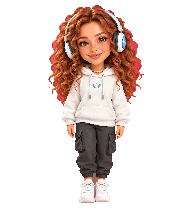
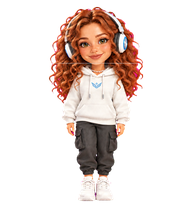
fix: sharpen Patrycja animation assets

Changed region(s): [[0.25, 0.0288, 0.75, 0.9808], [0.4062, 0.4615, 0.4375, 0.4904]]

diff --git a/__init__.py b/__init__.py
@@ -12,7 +12,7 @@ from typing import Any
 
 PLUGIN_VERSION = "1.0.0"
 PET_SLUG = "patrycja"
[2 lines of base64/hex data omitted]
 
 _ROOT = Path(__file__).resolve().parent
 _ASSETS = _ROOT / "assets"
@@ -87,4 +87,3 @@ def register(ctx: Any) -> None:
     # first session. The hook also self-heals a missing asset later on.
     install_pet()
     ctx.register_hook("on_session_start", _ensure_on_session_start)
-

diff --git a/README.md b/README.md
@@ -65,6 +65,10 @@ The production atlas contains all nine Hermes/Petdex rows:
 The lossless WebP atlas is 1536×1872 pixels. Every cell is 192×208 pixels and
 uses real transparency.
 
+Version 1.0.1 rebuilds the atlas from 2× working frames with one high-quality
+Lanczos reduction. It preserves Patrycja's original design, animation timing
+and on-screen size while making her face, curls and small gestures clearer.
+
 ## What the plugin does
 
 At gateway startup it verifies the bundled spritesheet's SHA-256 and copies
@@ -91,13 +95,13 @@ still present. Installation is idempotent and uses atomic file replacement.
 Production spritesheet SHA-256:
 
 ```text
[2 lines of base64/hex data omitted]
 ```
 
 Showcase GIF SHA-256:
 
 ```text
[2 lines of base64/hex data omitted]
 ```
 
 ## Credits and license
@@ -108,4 +112,3 @@ original and AI-assisted.
 
 Code and bundled artwork are released under the [MIT License](LICENSE), so you
 may use, modify and redistribute them with the copyright notice preserved.
-
